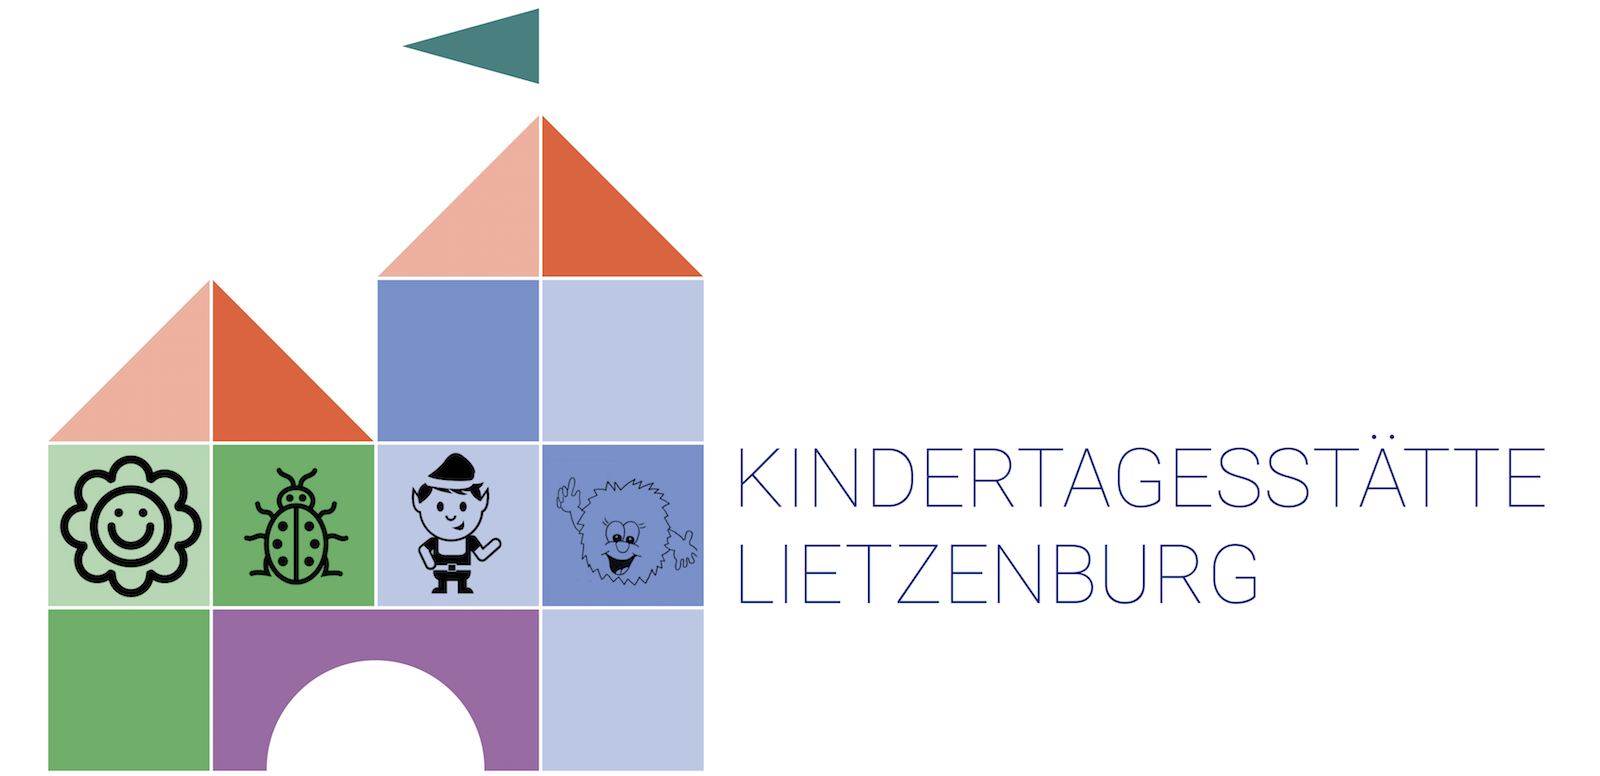
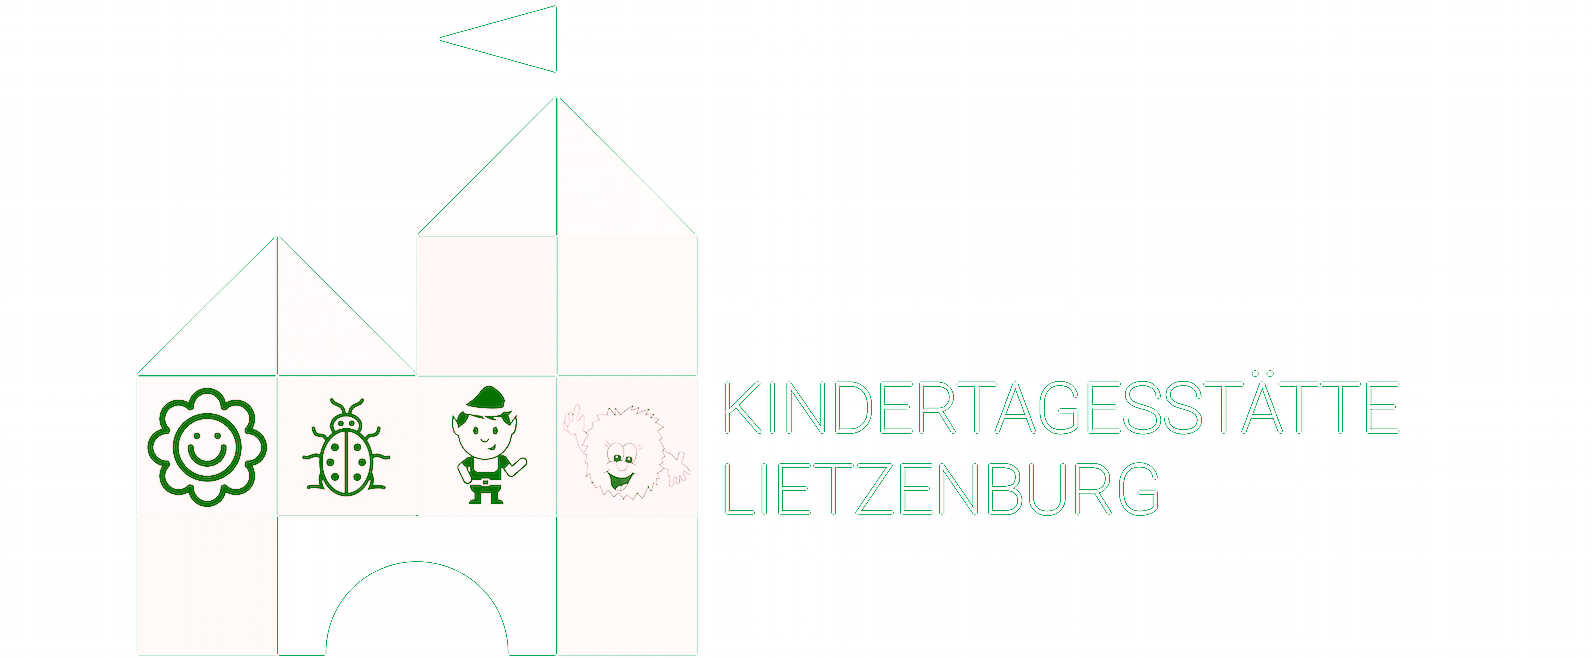
neues, grünes teaserbild für home

Changed region(s): [[0.0308, 0.152, 0.9535, 1.0], [0.2461, 0.0, 0.3384, 0.1216]]

diff --git a/kita/less/style.less b/kita/less/style.less
@@ -52,9 +52,9 @@
 	}
 
 	.cd-fixed-bg.home {
-		background-color: white;
 		background-size: contain;
 	}
+	.cd-fixed-bg.home,
 	.cd-scrolling-bg.home,
 	.cd-scrolling-bg.home h1,
 	.cd-scrolling-bg.home h2,
